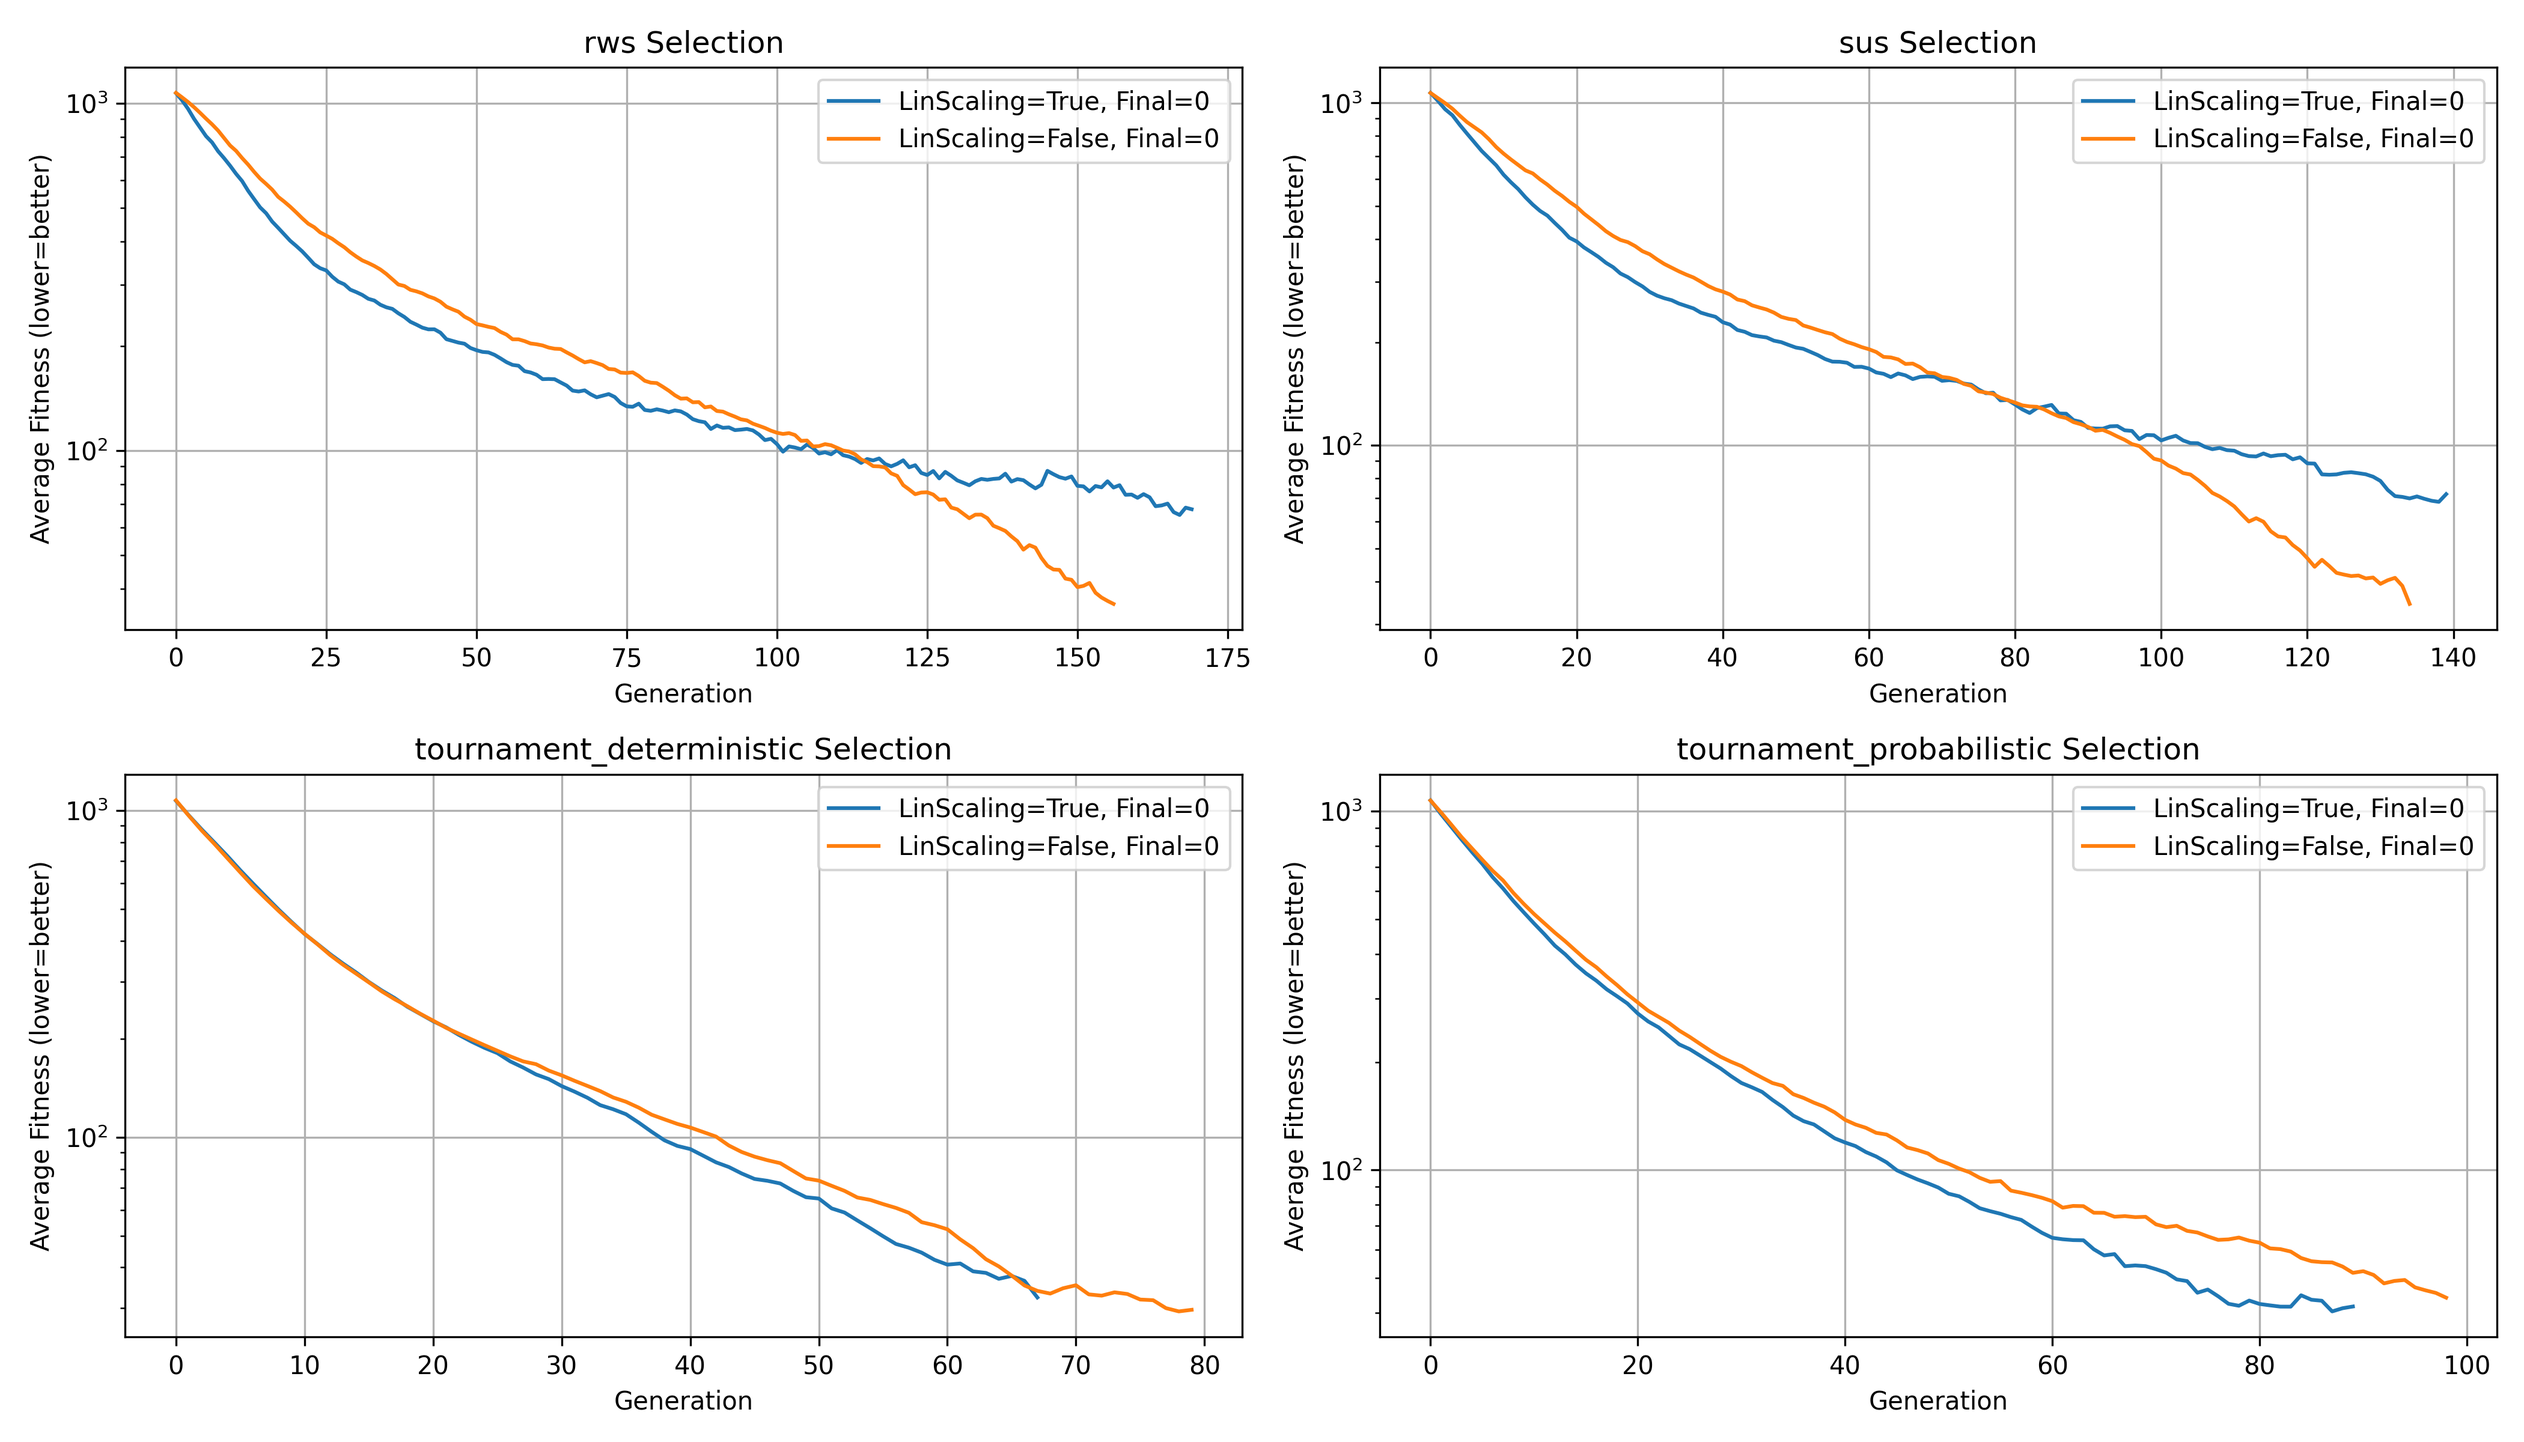
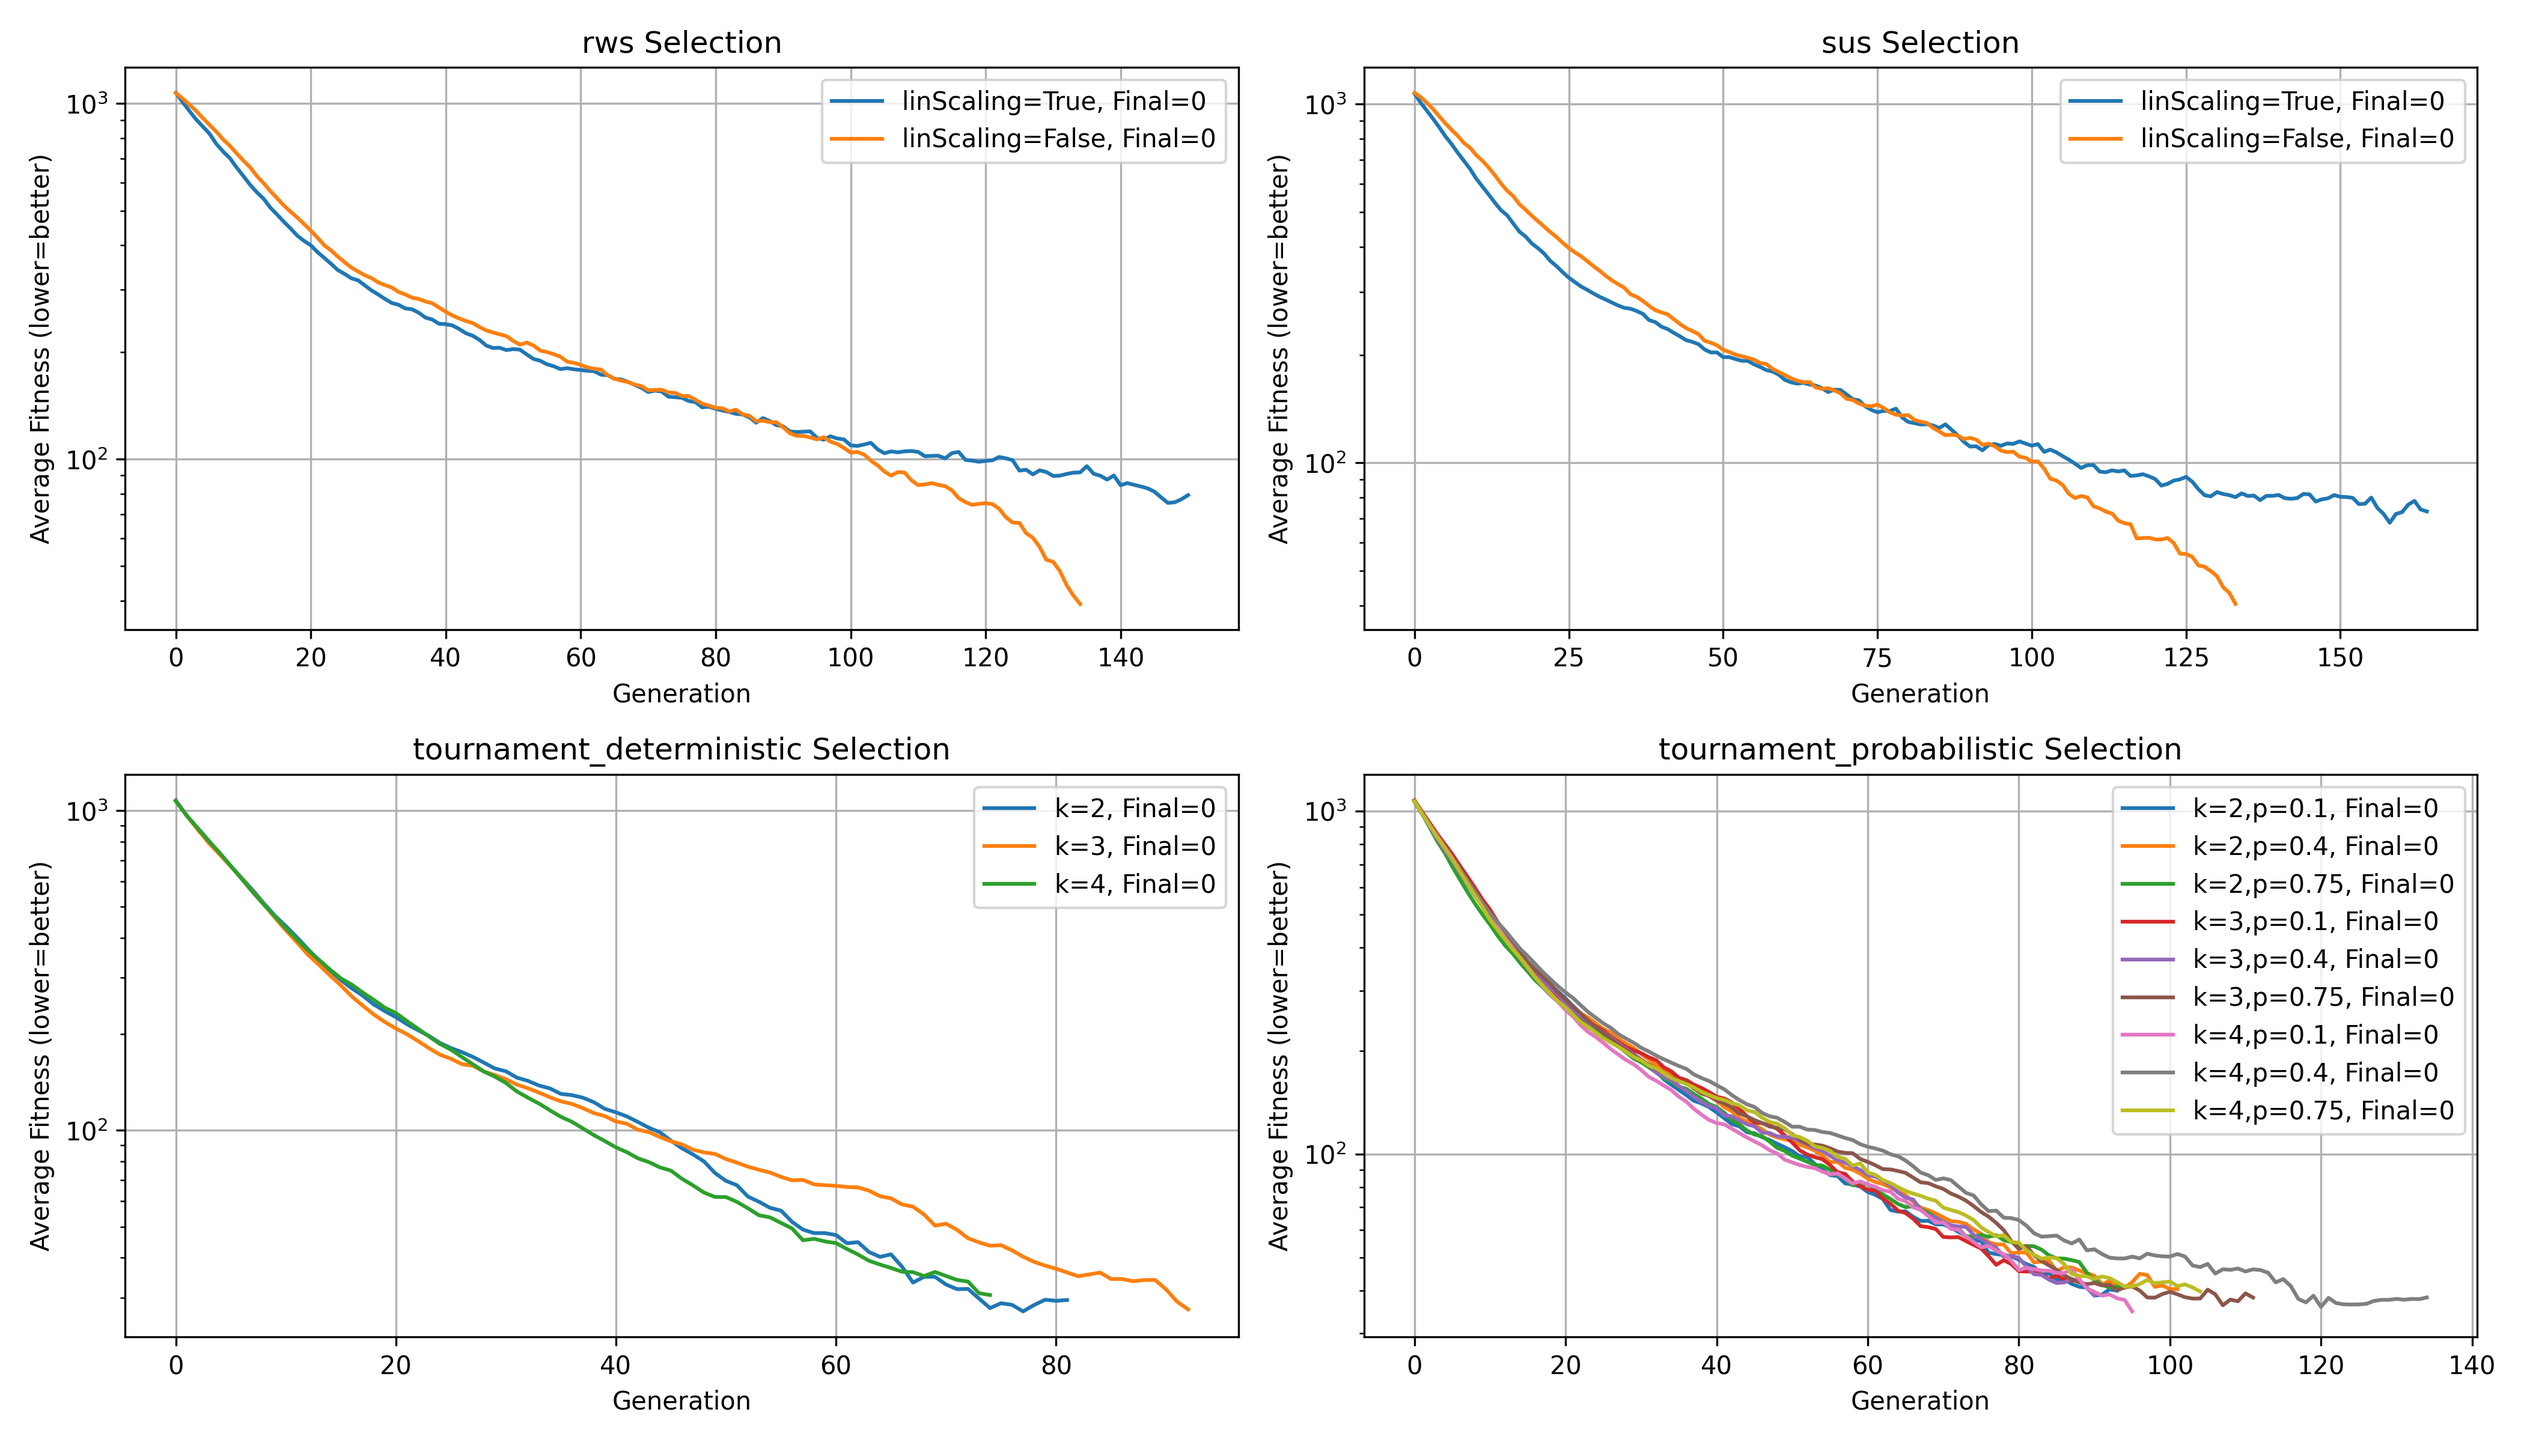
more work

diff --git a/experiment_runner.py b/experiment_runner.py
@@ -78,19 +78,14 @@ def main():
     results_dir = "experiment_results"
     os.makedirs(results_dir, exist_ok=True)
     
-    # Define parameter ranges to test
-    selection_methods = ["rws", "sus", "tournament_deterministic", "tournament_probabilistic"]
-    linear_scalings = [True, False]
-
-    # Prepare results structure
     results = {}
 
-    # Run experiments in plain loops
-    for sel_method in selection_methods:
+    # RWS & SUS with or without linear scaling
+    for sel_method in ["rws", "sus"]:
         results[sel_method] = {}
-        for lin_scaling in linear_scalings:
+        for lin_scaling in [True, False]:
             best_history, mean_history, final_iter = run_experiment(
-                5,  # lcs_bonus changed to 5
+                5,
                 "two_point",
                 0.55,
                 "combined",
@@ -99,7 +94,47 @@ def main():
                 250
             )
             metrics = calculate_metrics(best_history, final_iter)
-            results[sel_method][lin_scaling] = {
+            results[sel_method][f"linScaling={lin_scaling}"] = {
+                "mean_history": mean_history,
+                "metrics": metrics
+            }
+
+    # deterministic tournament (k in [2,3,4])
+    results["tournament_deterministic"] = {}
+    for k_val in [2, 3, 4]:
+        best_history, mean_history, final_iter = run_experiment(
+            5,
+            "two_point",
+            0.55,
+            "combined",
+            "tournament_deterministic",
+            False,
+            250,
+        )
+        sol.ga_tournament_k = k_val
+        metrics = calculate_metrics(best_history, final_iter)
+        results["tournament_deterministic"][f"k={k_val}"] = {
+            "mean_history": mean_history,
+            "metrics": metrics
+        }
+
+    # probabilistic tournament (k in [2,3,4], p in [0.1, 0.4, 0.75])
+    results["tournament_probabilistic"] = {}
+    for k_val in [2, 3, 4]:
+        for p_val in [0.1, 0.4, 0.75]:
+            best_history, mean_history, final_iter = run_experiment(
+                5,
+                "two_point",
+                0.55,
+                "combined",
+                "tournament_probabilistic",
+                False,
+                250,
+            )
+            sol.ga_tournament_k_prob = k_val
+            sol.ga_tournament_p = p_val
+            metrics = calculate_metrics(best_history, final_iter)
+            results["tournament_probabilistic"][f"k={k_val},p={p_val}"] = {
                 "mean_history": mean_history,
                 "metrics": metrics
             }
@@ -108,12 +143,12 @@ def main():
     fig, axes = plt.subplots(2, 2, figsize=(14, 8))
     axes = axes.flatten()
 
-    for i, sel_method in enumerate(selection_methods):
+    for i, sel_method in enumerate(results.keys()):
         ax = axes[i]
         for combo, data in results[sel_method].items():
             mean_history = data["mean_history"]
             metrics = data["metrics"]
-            label_str = f"LinScaling={combo}, Final={metrics['final_fitness']}"
+            label_str = f"{combo}, Final={metrics['final_fitness']}"
             ax.plot(mean_history, label=label_str)
         ax.set_title(f"{sel_method} Selection", fontsize=12)
         ax.set_xlabel("Generation", fontsize=10)
@@ -127,7 +162,7 @@ def main():
     plt.show()
 
     # Create a summary table for each selection method
-    for sel_method in selection_methods:
+    for sel_method in results.keys():
         print(f"\nSummary for {sel_method} selection:")
         print("-" * 80)
         print(f"{'Parameters':<25} {'Final':<10} {'Iterations':<12} {'Conv.Speed':<12} {'Status':<10}")
@@ -140,7 +175,7 @@ def main():
         
         for combo, data in combos_by_score:
             metrics = data["metrics"]
-            param_str = f"Linear Scaling={combo}"
+            param_str = f"{combo}"
             status = "SOLVED" if metrics["solved"] else "Not solved"
             
             print(f"{param_str:<25} {metrics['final_fitness']:<10.2f} "
